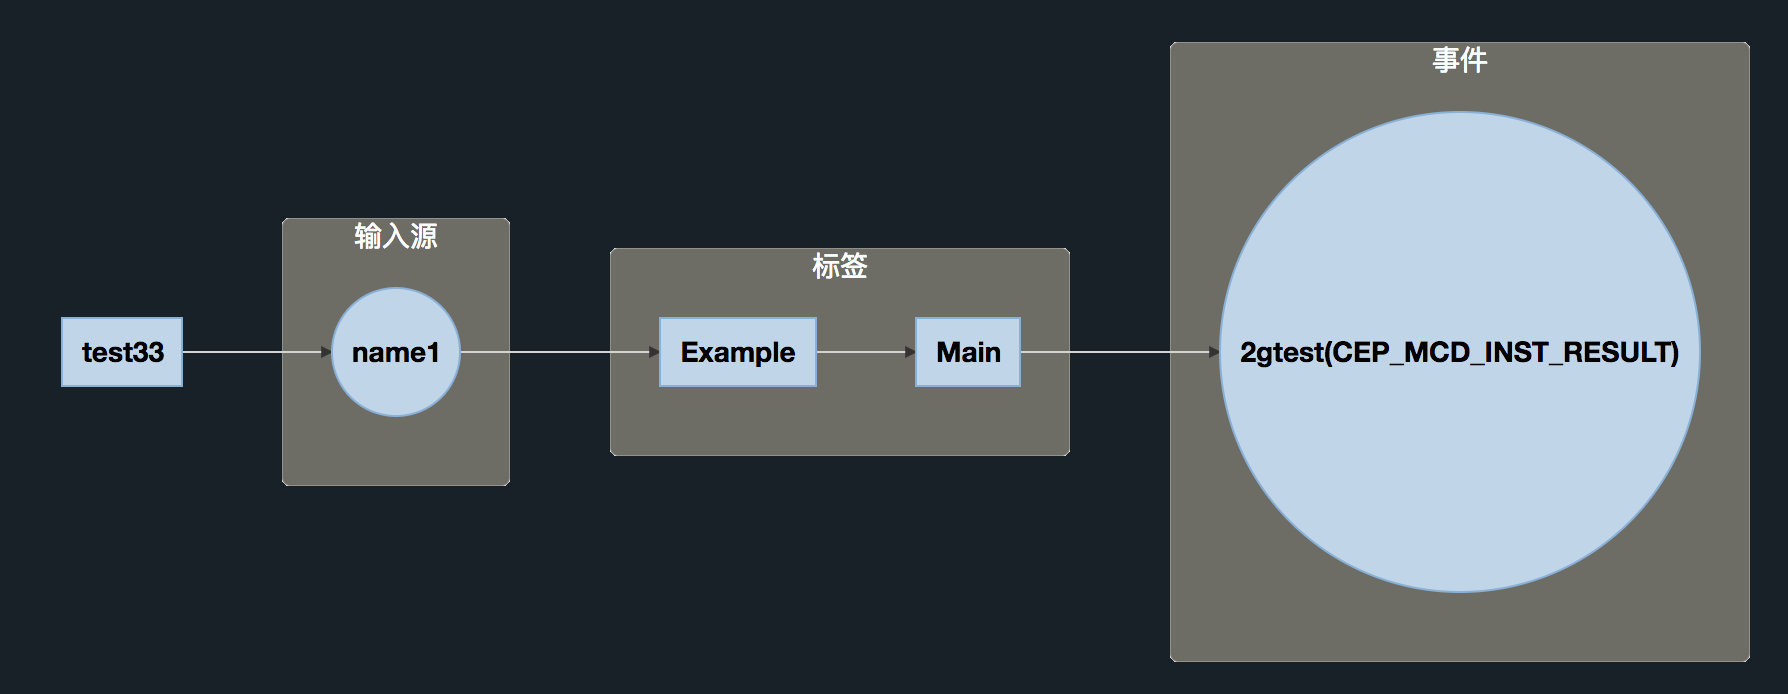
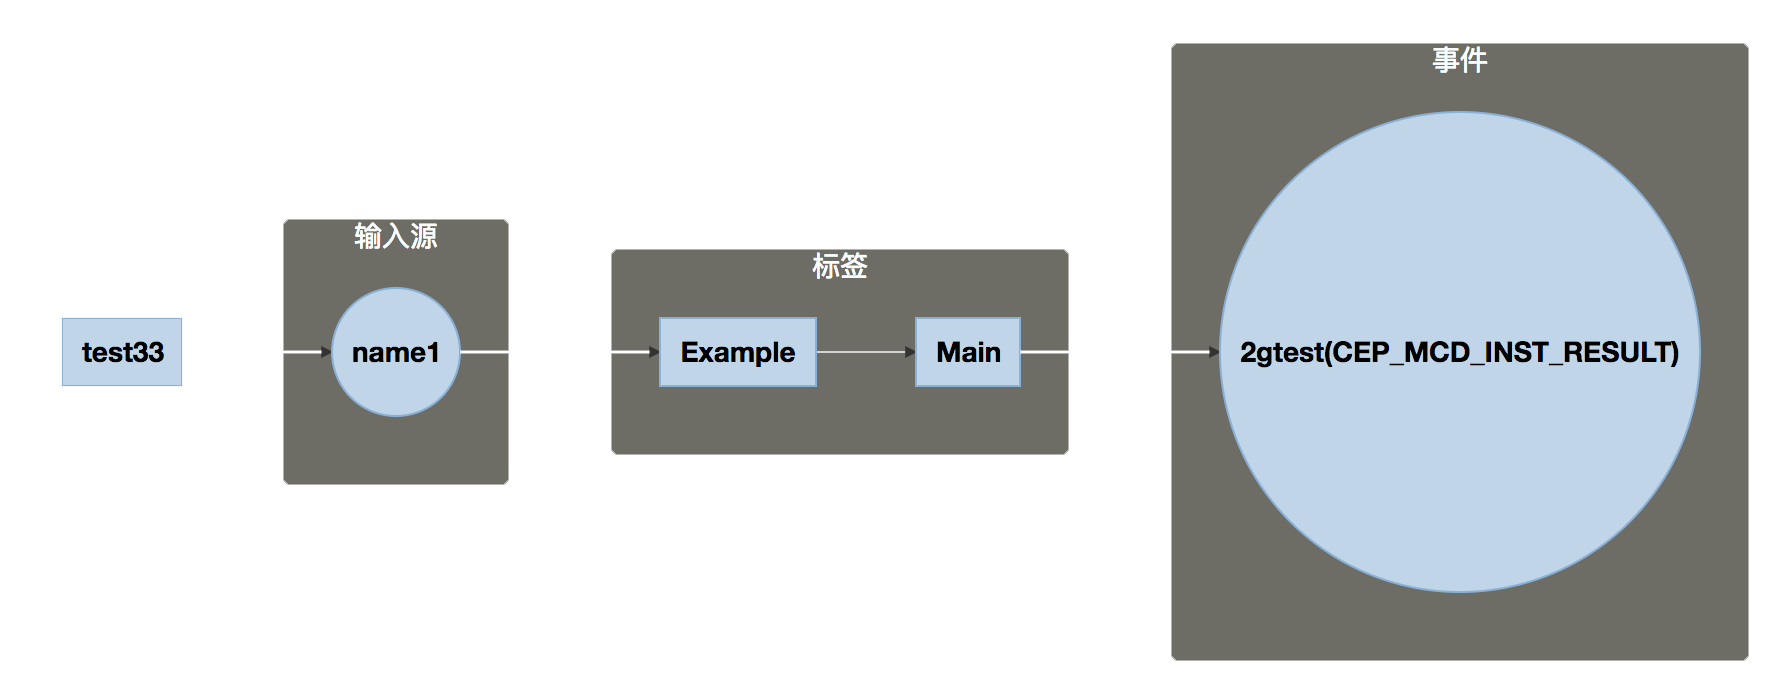
update css for ocportal ocsp page

diff --git a/src/data/ocspdemodata.js b/src/data/ocspdemodata.js
@@ -20,7 +20,7 @@ let demodata = [
                 text: '有效数据统计图',
                 textStyle: {
                     fontWeight: "bolder",
-                    color: "#aaa"
+                    color: "#475669"
                 },
             },
             xAxis: {
@@ -87,7 +87,7 @@ let demodata = [
                 text: '无效数据统计图',
                 textStyle: {
                     fontWeight: "bolder",
-                    color: "#aaa"
+                    color: "#475669"
                 },
             },
             xAxis: {
@@ -143,7 +143,7 @@ let demodata = [
                 text: "内存比例",
                 x: "center",
                 textStyle: {
-                    color: "#EEE"
+                    color: "#475669"
                 }
             },
             textStyle: {
@@ -183,7 +183,7 @@ let demodata = [
                 text: "CPU核数比例",
                 x: "center",
                 textStyle: {
-                    color: "#EEE"
+                    color: "#475669"
                 }
             },
             textStyle: {
@@ -234,7 +234,7 @@ let demodata = [
                 data: ["每批次处理时间（s）"],
                 textStyle: {
                     fontWeight: "bolder",
-                    color: "#aaa"
+                    color: "#475669"
                 }
             },
             grid: {
@@ -276,7 +276,7 @@ let demodata = [
                 text: '作业流事件处理数据量',
                 textStyle: {
                     fontWeight: "bolder",
-                    color: "#aaa"
+                    color: "#475669"
                 }
             },
             textStyle: {
@@ -295,7 +295,7 @@ let demodata = [
             legend: {
                 data:['事件Demo1','事件Demo2'],
                 textStyle: {
-                    color: "#aaa"
+                    color: "#475669"
                 }
             },
             grid: {
@@ -356,7 +356,7 @@ let demodata = [
                 text: '有效数据统计图',
                 textStyle: {
                     fontWeight: "bolder",
-                    color: "#aaa"
+                    color: "#475669"
                 },
             },
             xAxis: {
@@ -423,7 +423,7 @@ let demodata = [
                 text: '无效数据统计图',
                 textStyle: {
                     fontWeight: "bolder",
-                    color: "#aaa"
+                    color: "#475669"
                 },
             },
             xAxis: {
@@ -479,7 +479,7 @@ let demodata = [
                 text: "内存比例",
                 x: "center",
                 textStyle: {
-                    color: "#EEE"
+                    color: "#475669"
                 }
             },
             textStyle: {
@@ -519,7 +519,7 @@ let demodata = [
                 text: "CPU核数比例",
                 x: "center",
                 textStyle: {
-                    color: "#EEE"
+                    color: "#475669"
                 }
             },
             textStyle: {
@@ -570,7 +570,7 @@ let demodata = [
                 data: ["每批次处理时间（s）"],
                 textStyle: {
                     fontWeight: "bolder",
-                    color: "#aaa"
+                    color: "#475669"
                 }
             },
             grid: {
@@ -612,7 +612,7 @@ let demodata = [
                 text: '作业流事件处理数据量',
                 textStyle: {
                     fontWeight: "bolder",
-                    color: "#aaa"
+                    color: "#475669"
                 }
             },
             textStyle: {
@@ -631,7 +631,7 @@ let demodata = [
             legend: {
                 data:['事件Demo1','事件Demo2','事件Demo3'],
                 textStyle: {
-                    color: "#aaa"
+                    color: "#475669"
                 }
             },
             grid: {

diff --git a/src/components/OCSP.vue b/src/components/OCSP.vue
@@ -5,8 +5,8 @@
         <el-col :span="18" :offset="6">
           <div class="" style="display:inline-block;">
             <span class="">
-              <h1 style="display:inline-block;" class="">AISWare Stream Processor</h1>
-              <a href="" style="color:grey;margin-left:20px;">访问应用实例</a>
+              <h1 style="display:inline-block;" class="content_title">AISWare Stream Processor</h1>
+              <a href="" style="color:grey;margin-left:20px;" class="content_subtitle">访问应用实例</a>
             </span>
           </div>
         </el-col>
@@ -49,7 +49,7 @@
             <el-col :span="12">
                 <div class="grid-content bg-purple">
                     <el-card class="box-card noborder mycard">
-                        <div><h3><b>作业流业务配置图</b></h3></div>
+                        <div><h3><b class="content_title">作业流业务配置图</b></h3></div>
                         <div id="myChart1" style="height: 425px;">
                             <a v-on:click="goPrev()" class="el-icon-arrow-left goPrevArrow"></a>
                             <a v-on:click="goNext()" class="el-icon-arrow-right goNextArrow"></a>
@@ -423,7 +423,6 @@ export default {
 }
 
 .el-carousel__item h3 {
-  color: #475669;
   font-size: 18px;
   opacity: 0.75;
   line-height: 300px;
@@ -442,7 +441,7 @@ export default {
   margin: 5px 5px 5px 5px;
   height: 75px;
   box-sizing: border-box;
-  color: #fff;
+  color: #475669;
   font-size: 10px;
 }
 
@@ -486,12 +485,9 @@ export default {
 }
 
 .mycard {
-  -moz-box-shadow:3px 3px 10px #aca7b3; 
-  -webkit-box-shadow:3px 3px 10px #aca7b3; 
-  box-shadow:3px 3px 10px #aca7b3;
-  border-radius:10px;
   transition: all 0.6s;
-  background:#525369;
+  border: 1px solid #CCD5E0;
+  border-radius: 4px;
 }
 
 .el-carousel__item .is-active .is-animating {
@@ -500,6 +496,24 @@ export default {
 
 .mycard:hover {
   transform: scale(1.03);
+}
+
+.content_title {
+  font-family: MicrosoftYaHei;
+  font-size: 16px;
+  color: #475669;
+  letter-spacing: 0;
+  line-height: 18px;
+}
+
+.content_subtitle {
+  font-family: MicrosoftYaHei;
+  font-size: 12px;
+  color: #A2B0C4;
+}
+
+.el-card {
+  background-color: white;
 }
 
 </style>

diff --git a/src/App.vue b/src/App.vue
@@ -282,16 +282,16 @@
 <style>
   html, body {
     margin: 0;
-    background-color: rgb(24, 32, 40);
+    /* background-color: rgb(24, 32, 40); */
   }
 
   body .el-menu {
     border-right: 0;
   }
 
-  h1, h2, h3{
+  /* h1, h2, h3{
     color: white !important;
-  }
+  } */
 
   .el-menu-item-group .el-menu-item-group__title{
     display: none;
@@ -383,7 +383,8 @@
   }
 
   .container{
-    /*background-color: rgb(24, 32, 40);*/
+    background: #F9FAFC;
+    border: 1px solid #E0E6ED;
     padding: 20px;
   }
 
@@ -408,6 +409,6 @@
 
   .mybgimg {
     background-image: url('../static/starbackground.jpg');
-    background-color: #000000;
+    /* background-color: #000000; */
   }
 </style>

diff --git a/src/components/OCSP1.vue b/src/components/OCSP1.vue
@@ -295,9 +295,9 @@ export default {
   margin: 0;
 }
 
-.el-carousel__item {
+/* .el-carousel__item {
   background-color: #182028;
-}
+} */
 
 .el-carousel__button {
   background: red;
